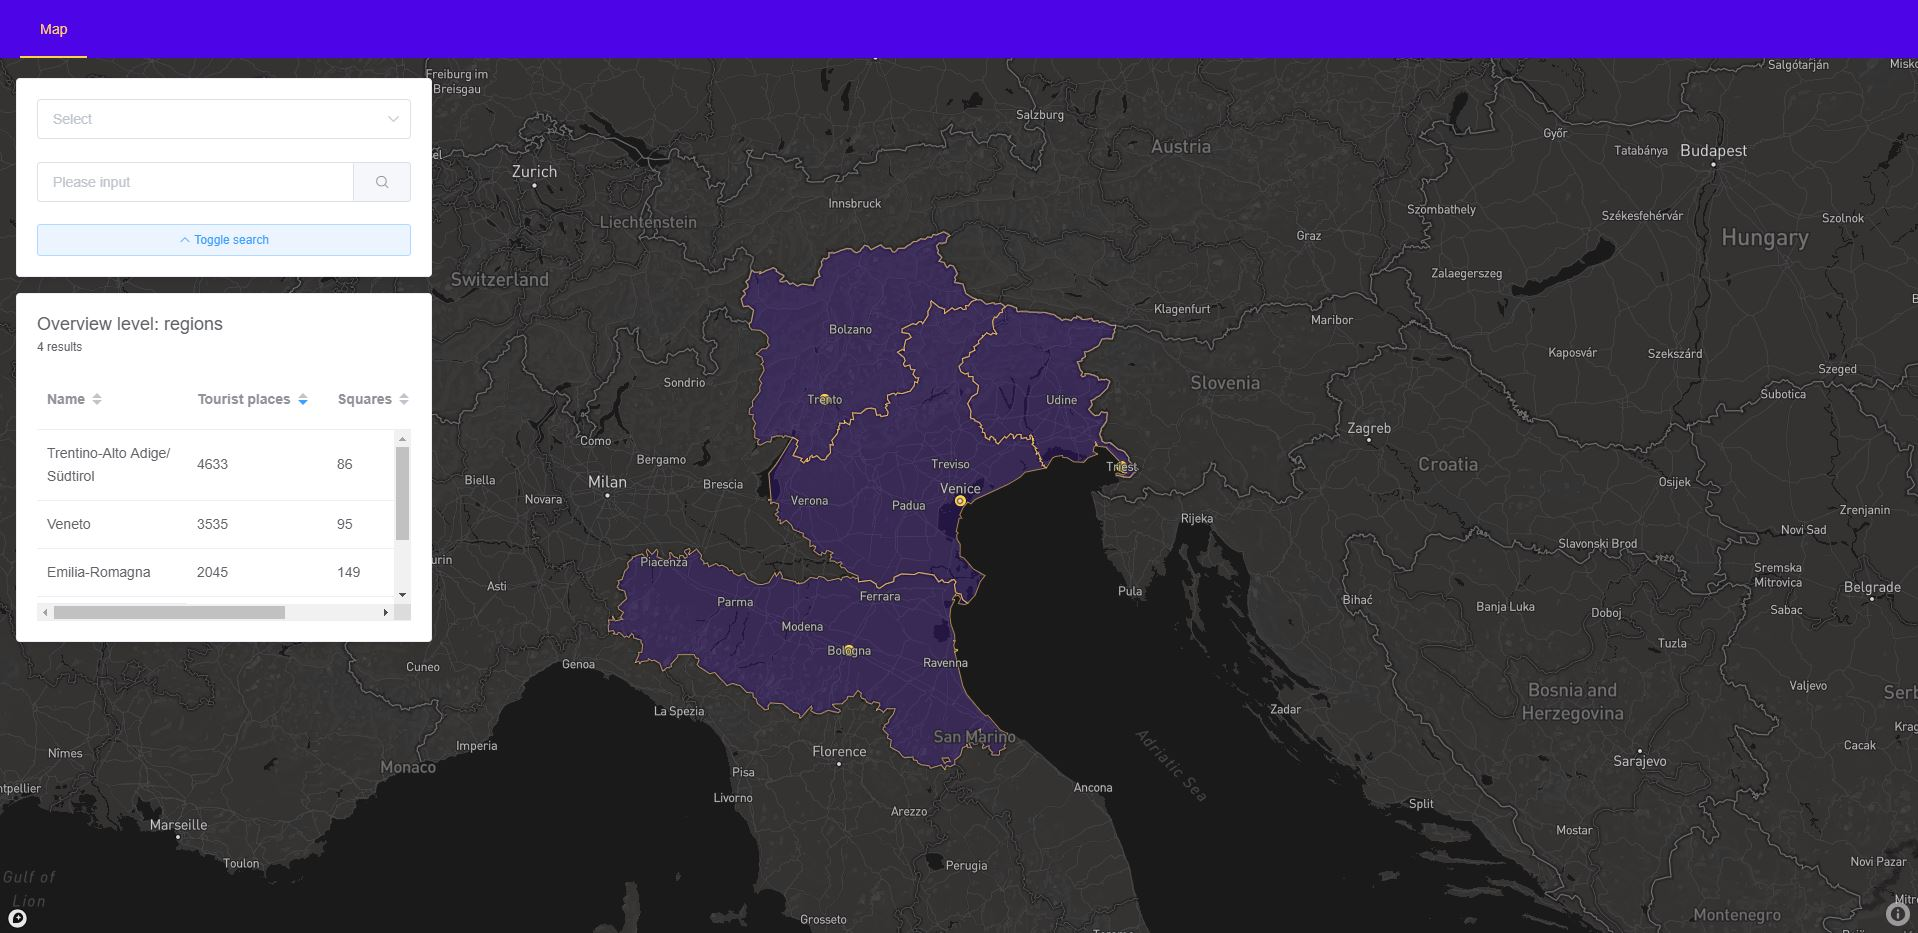
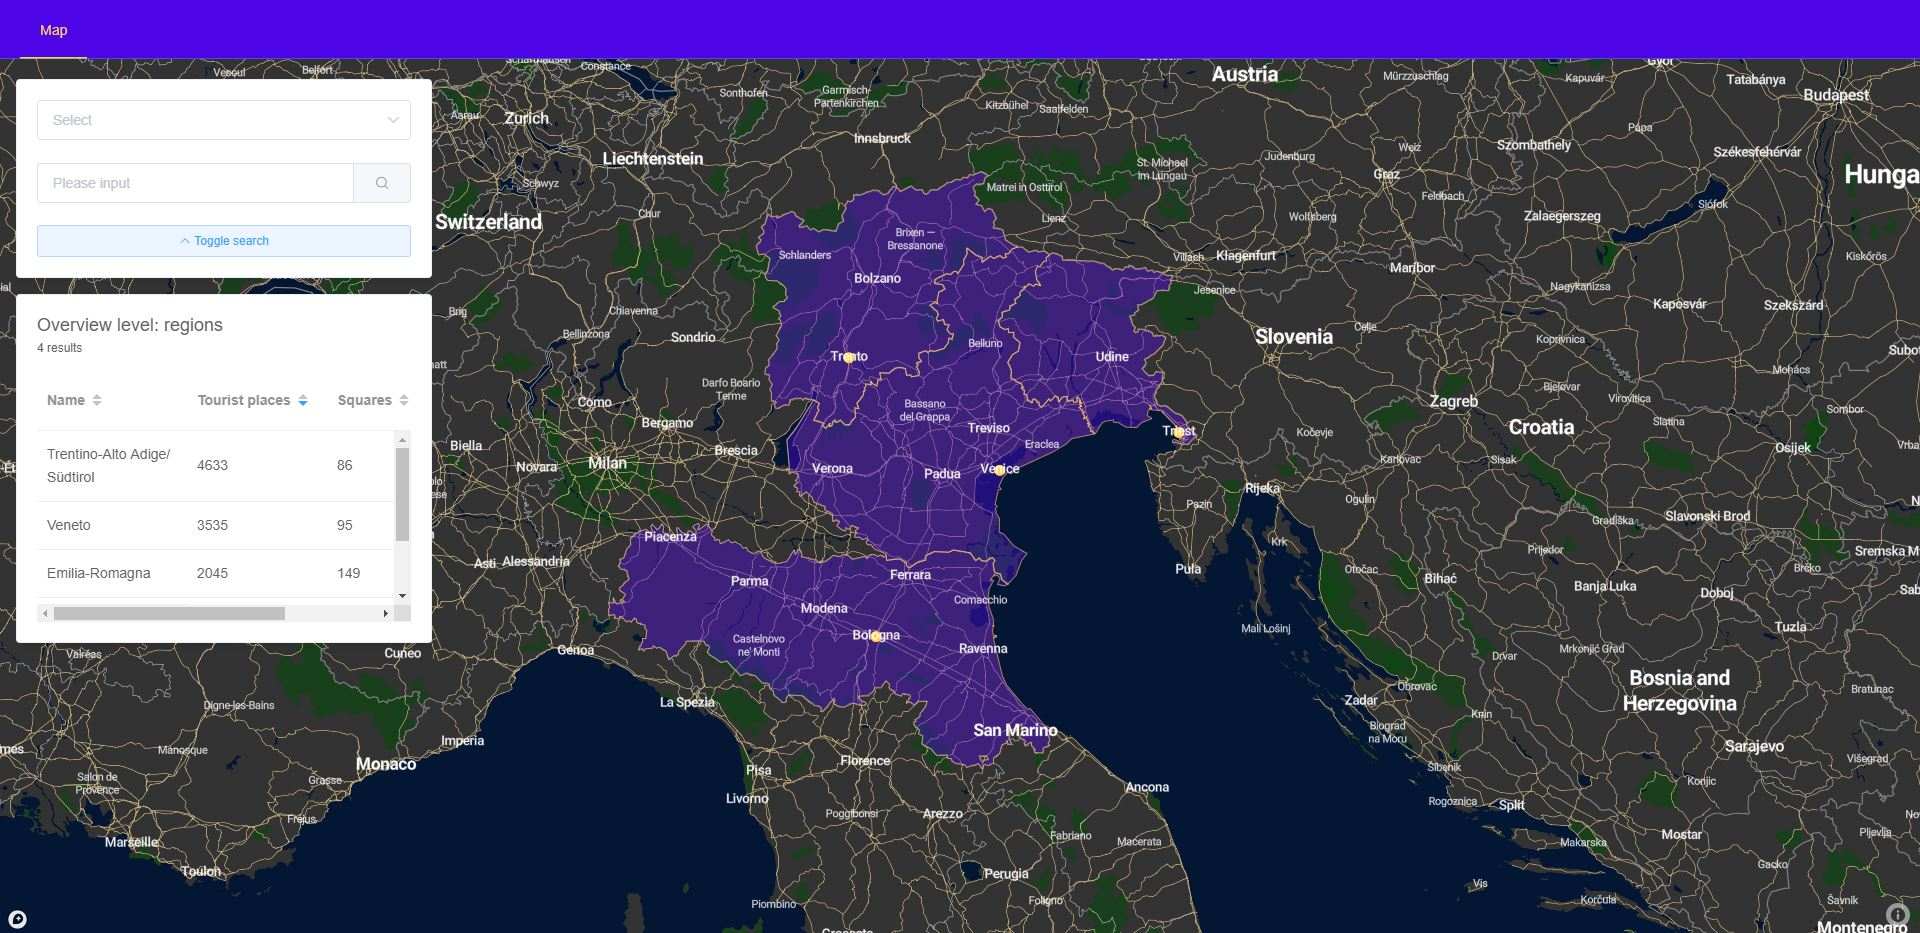
+ custom map style ~ documentation finalization

diff --git a/src/client/pages/index.vue b/src/client/pages/index.vue
@@ -465,7 +465,7 @@
                     'source': mockSource,
                     'paint': {
                         'fill-color': this.primaryColor,
-                        'fill-opacity': ["case", ["boolean", ["feature-state", "hover"], false], 0.4, 0.2]
+                        'fill-opacity': ["case", ["boolean", ["feature-state", "hover"], false], 0.8, 0.4]
                     }
                 }, firstSymbolId);
 
@@ -496,7 +496,7 @@
                     'source': mockSource,
                     'paint': {
                         'fill-color': this.primaryColor,
-                        'fill-opacity': ["case", ["boolean", ["feature-state", "selected"], false], 1, 0.3]
+                        'fill-opacity': ["case", ["boolean", ["feature-state", "selected"], false], 1, 0.6]
                     }
                 }, firstSymbolId);
 
@@ -516,14 +516,14 @@
                         'text-size': 12
                     },
                     'paint': {
-                        'icon-opacity': ["case", ["boolean", ["feature-state", "selected"], false], 1, 0.3],
+                        'icon-opacity': ["case", ["boolean", ["feature-state", "selected"], false], 1, 0.6],
                         'icon-color': [
                             'match',
                             ['get', 'tourism'],
                             ..._.flatten(_.toPairs(this.tourismColorMap)),
                             '#fff'
                         ],
-                        'text-opacity': ["case", ["boolean", ["feature-state", "selected"], false], 1, 0.3],
+                        'text-opacity': ["case", ["boolean", ["feature-state", "selected"], false], 1, 0.6],
                         'text-color': [
                             'match',
                             ['get', 'tourism'],
@@ -538,7 +538,7 @@
                     'type': 'line',
                     'source': mockSource,
                     'paint': {
-                        'line-color': '#00b5cc',
+                        'line-color': '#22ff22',
                         'line-width': 3,
                         'line-opacity': 0.6
                     }
@@ -666,7 +666,7 @@
             mapboxgl.accessToken = "pk.eyJ1IjoicHBpc2Vja3kiLCJhIjoiY2ptbHFtaWQ5MGE4ejNwb2U2bjhjZTFndCJ9.OeB2WcaYoizROXfGgDGhgw";
             window.pdt_map = this.map = new mapboxgl.Map({
                 container: 'map',
-                style: 'mapbox://styles/mapbox/dark-v9',
+                style: 'mapbox://styles/ppisecky/cjp7h4xbl3iyy2ss0zbrz0gct',
                 center: [this.coordinates.lng, this.coordinates.lat],
                 zoom: this.zoom,
                 maxBounds: this.maxBounds

diff --git a/src/server/routes/lines.js b/src/server/routes/lines.js
@@ -66,6 +66,11 @@ function getDirections() {
         source = res.rows[0].source;
         target = res.rows[0].target;
 
+        if (!source || !target) {
+            ctx.body = [];
+            return;
+        }
+
         console.log(`Searching directions for ${source} ${target}`);
 
         let sql = `

diff --git a/docs/api.md b/docs/api.md
@@ -1,0 +1,177 @@
+API implementation can be found in `src/server/routes` folder.
+
+The queries listed here serve as an example of the final query. They
+contain parametrization placeholders (e.g. `$1`,  `$2` etc.) used by the `pg` package query builder to supplement real values for the final query.
+The actual numbering and usage of the placeholders depends on the query parameters used when calling the API.
+
+Queries supporting area bounds expect coordinates in this exact order: sw lng, sw lat, ne lng, ne lat
+
+# Areas
+
+## Get administrative regions with overview information
+`GET /areas/summaries?type=regions&bounds[]=`
+
+Provides polygon geometry with summary information for various administrative regions. When searching for `regions` or `provinces` the capital city is included.
+
+Query for regions and provinces:
+```sql
+SELECT areas.osm_id, areas.name, way_union, ST_AsGeoJSON(areas.way_union) as geojson, ST_X(ST_Centroid(areas.way_union)) as lng,
+ST_Y(ST_Centroid(areas.way_union)) as lat, areas.s as squares_count, areas.t as tourism_count,
+capitals.name as capital_name, capitals.osm_id as capital_osm_id, ST_AsGeoJSON(capitals.way) as capital_geojson
+FROM (
+    SELECT polys.osm_id, polys.name, ST_Collect(ST_Simplify(polys.way, $2)) as way_union, SUM(squares_count_cache) as s,
+    SUM(tourist_places_count_cache) as t
+    FROM planet_osm_polygon as polys
+
+    WHERE polys.boundary = 'administrative' AND polys.admin_level = $1 AND ST_Intersects(ST_MakeEnvelope($3, $4, $5, $6, ST_SRID(polys.way)), polys.way)
+    GROUP BY polys.osm_id, polys.name
+) as areas
+
+
+LEFT JOIN planet_osm_point as capitals
+ON ST_Contains(areas.way_union, capitals.way) AND capitals.name is not null AND capitals.capital = $1
+LIMIT 120
+```
+
+Query for municiaplities:
+```sql
+SELECT polys.osm_id, polys.name, ST_AsGeoJSON(ST_Collect(ST_Simplify(polys.way, $2))) as geojson, ST_X(ST_Centroid(ST_Collect(ST_Simplify(polys.way, $2)))) as lng,
+ST_Y(ST_Centroid(ST_Collect(ST_Simplify(polys.way, $2)))) as lat, sum(polys.squares_count_cache) as squares_count,
+SUM(polys.tourist_places_count_cache) as tourism_count
+FROM planet_osm_polygon as polys
+
+WHERE polys.boundary = 'administrative' AND polys.admin_level = $1 AND ST_Intersects(ST_MakeEnvelope($3, $4, $5, $6, ST_SRID(polys.way)), polys.way)
+GROUP BY polys.osm_id, polys.name
+LIMIT 130
+```
+
+
+## Get squares within an area defined by lng/lat coordinates
+`GET /areas/squares?bounds[]=`
+
+Provides polygons marked as `place=square` in an area defined by bounds.
+```sql
+SELECT squares.osm_id, squares.name, ST_AsGeoJSON(squares.way) as geojson, squares.way_area as area, squares.place,
+ST_X(ST_Centroid(squares.way)) as lng, ST_Y(ST_Centroid(squares.way)) as lat
+FROM planet_osm_polygon as squares
+
+WHERE squares.name is not null AND squares.place = 'square' AND squares.osm_id > 0 AND ST_Intersects(ST_MakeEnvelope($1, $2, $3, $4, ST_SRID(squares.way)), squares.way)
+
+LIMIT 100
+```
+
+
+## Get polygon by id
+`GET /areas/:id`
+
+Searches for a polygon by the osm_id specified in `:id`
+```sql
+SELECT * FROM planet_osm_polygon
+WHERE osm_id = $1
+```
+
+# Places
+
+## Search for places by name and filterd by `tourism` tag
+`GET /places/search?q=foo&tourism[]=`
+
+Search for places by name and tourism tag values.
+```sql
+SELECT places.osm_id, places.name, ST_AsGeoJSON(places.way) as geojson, places.tourism,
+ST_X(places.way) as lng, ST_Y(places.way) as lat
+FROM planet_osm_point as places
+
+WHERE places.name IS NOT null AND places.tourism IS NOT null AND places.tourism IN($1, $2, $3) AND places.osm_id > 0 AND places.name LIKE $1
+
+LIMIT 10
+```
+
+## Find tourist places of certain types in an area defined by bounds
+`GET /places/tourist?tourism[]=&bounds[]=`
+
+Finds tourist points of desired type in an area defined by bounds
+```sql
+SELECT places.osm_id, places.name, ST_AsGeoJSON(places.way) as geojson, places.tourism,
+ST_X(places.way) as lng, ST_Y(places.way) as lat
+FROM planet_osm_point as places
+
+WHERE places.name IS NOT null AND places.tourism IS NOT null places.tourism IN($1, $2, $3) AND places.osm_id > 0 AND ST_Intersects(ST_MakeEnvelope($4, $5, $6, $7, ST_SRID(places.way)), places.way)
+
+LIMIT 200
+```
+
+## Get a point by id
+`GET /places/:id`
+
+Get a point by osm_id
+
+```sql
+SELECT * FROM planet_osm_point
+WHERE osm_id = $1
+```
+# Lines
+
+## Get roads surrounding a point within a predefined distance
+
+`GET /lines/surrounding?bounds[]=`
+
+Get lines surrounding a point identified by an osm_id (maximum distance restrictions apply). The search area can be further restricted by provididng bounds. The chosen distance restriction is arbitrary.
+```sql
+SELECT ST_AsGeoJSON(edges.geom_way) as geojson
+FROM planet_osm_point as points
+
+JOIN pgr_italy_2po_4pgr as edges
+ON ST_DWithin(points.way, edges.geom_way, 0.01) AND ST_Intersects(ST_MakeEnvelope($2, $3, $4, $5, ST_SRID(edges.geom_way)), edges.geom_way)
+
+WHERE points.osm_id = $1
+```
+
+
+## Find the shortest path between two points
+`GET /lines/directions?source=&target=`
+
+Attempts to find directions between two points.
+
+First a source and target nodes closest to the points specified by the `source` and `target` osm_id's are found - 150m radius is used here to limit maximum node distance from the point.
+
+```sql
+SELECT (
+           SELECT v.id
+           FROM planet_osm_point as p
+
+           JOIN pgr_italy_2po_vertex as v
+           ON ST_DWithin(p.way::geography, v.geog_vertex, 150)
+
+           WHERE p.osm_id = $1
+
+           ORDER BY ST_Distance(p.way::geography, v.geog_vertex) ASC
+           LIMIT 1
+       ) as source,
+       (
+          SELECT v.id
+          FROM planet_osm_point as p
+
+          JOIN pgr_italy_2po_vertex as v
+          ON ST_DWithin(p.way::geography, v.geog_vertex, 150)
+
+          WHERE p.osm_id = $2
+
+          ORDER BY ST_Distance(p.way::geography, v.geog_vertex) ASC
+          LIMIT 1
+      ) as as target
+```
+
+Using the newly found nodes a shortest path between them is searched for using `pgr_dijkstra` function from `pgRouting`. Note: The `pg` package parametrization doesn't work here because the values need to be injected into the string used as the first argument for dijkstra. This isn't a major problem because at this point these values are going to be results of the previous query - not user input.
+
+```sql
+SELECT ST_AsGeoJSON(ST_Union(edges.geom_way)) as geojson
+FROM pgr_dijkstra(
+    'SELECT id, source, target, cost, reverse_cost, geom_way FROM pgr_italy_2po_4pgr as edges,
+    (SELECT ST_Expand(ST_Extent(geom_way),0.1) as box  FROM pgr_italy_2po_4pgr as lim  WHERE lim.source = ${source_node} OR lim.target = ${target_node}) as box
+    WHERE edges.geom_way && box.box',
+    $1, $2,
+    FALSE
+) as path
+JOIN pgr_italy_2po_4pgr as edges
+ON edges.id = path.edge
+```

diff --git a/docs/documentation.md b/docs/documentation.md
@@ -1,16 +1,19 @@
 # Overview
 
-This application helps tourists navigate in Italy:
-- display overview of administrative regions in Italy with number of points of interest and squares
+This application helps tourists navigate in Italy (see the [API documentation](api.md) doc for query examples):
+- display overview of administrative regions in Italy with number of points of interest, number of squares and administrative capital
 - search tourist points by name
+- display tourist points in the viewed area
 - filter tourist points by type
+- display roads in a radius around a point
 - get directions between two points
 
 This is it in action:
 
 ![Screenshot](preview1.JPG)
 ![Screenshot](preview2.JPG)
-
+![Screenshot](preview4.JPG)
+![Screenshot](preview3.JPG)
 
 The application has 2 separate parts, the client which is a [frontend web application](#frontend) using Vue.js and mapbox-gl and the Node.js + Koa [backend application](#backend) using Postgres + PostGIS to query data. The frontend application communicates with backend using a REST API.
 
@@ -18,17 +21,13 @@ The application has 2 separate parts, the client which is a [frontend web applic
 
 # Frontend
 
-The frontend application is a Vue.js app, which shows a mapbox.js widget. It provieds two view modes: overview and detail. The overview mode is a high-level (low zoom) view that displays region outlines at various levels with summary information for the regions being displayed. The detail level (high zoom) displays points of interest (from tourist perspective) and squares in the viewed area. Different types of points are displayed using different colors and icons to make navigation easier. In the detail view an item can be selected to get more information about it. Selected item can also be used to get directions to another nearby point of interest (if available).
+The frontend application is a `Vue.js + nuxt` app, which displays a `mapbox.js` widget. It provieds two view modes: overview and detail. The overview mode is a high-level (low zoom) view that displays region outlines at various levels with summary information for the regions being displayed. The detail level (high zoom) displays points of interest (from tourist perspective) and squares in the viewed area. Different types of points are displayed using different colors and icons to make navigation easier. In the detail view an item can be selected to get more information about it. Selected item can also be used to get directions to another nearby point of interest (if available).
 
 All relevant frontend code is in the `src/client` folder. The most important file is then located in `pages/index.vue`.
 
 # Backend
 
-The backend application is written in JavaScript using Node.js and Koa. The server provides a simple API for the client to query data in the database. All relevant PG queries are located in `src/server/routes`.
-
-## API
-
-See the [API documentation](api.md) for query examples.
+The backend application is written in JavaScript using `Node.js + Koa`. The server provides a simple API for the client to query data in the database. All relevant PG queries are located in `src/server/routes`.
 
 ## Data
 
@@ -47,7 +46,7 @@ The resulting database has been further modified by introducting 2 new columns i
 * `squares_count_cache` - number of squares in the area (polygons, place=square)
 * `tourist_places_count_cache` - number of tourist locations in the area (points, tourism != null)
 
-The data was also additionally imported using the `osm2po` tool which creates a network of nodes and vertices for use in conjunction with the `pgRouting` extension. Following tables have been created (prefix=`pgr_italy`):
+The data was also additionally imported using the `osm2po` tool which creates a network of vertices for use in conjunction with the `pgRouting` extension. Following tables have been created (prefix=`pgr_italy`):
 
 * `pgr_italy_2po_4pgr`: ~ 1 111 072 rows
 * `pgr_italy_2po_vertex`: ~ 905 308 rows
@@ -64,3 +63,7 @@ Several indices have been created on the imported data. Some of them are partial
 * `planet_osm_point` - `planet_osm_point_id_index` - btree index on osm_id
 * `pgr_italy_2po_vertex` - `vertex_geog_index` - gist index on a custom geographical column `geog_way` for finding vertices closest to points 
  
+
+## API and queries
+
+See the [API documentation](api.md) for query examples.

diff --git a/docs/database.md b/docs/database.md
@@ -6,7 +6,7 @@ Several indices were created to speed up query execution
 
 ### planet_osm_polygon
 
-```postgresql
+```sql
 CREATE INDEX planet_osm_polygon_admin_way_index ON planet_osm_polygon USING GIST (way) WHERE boundary = 'administrative' and admin_level IN ('4', '6', '8', '10');
 CREATE INDEX planet_osm_polygon_place_index ON planet_osm_polygon USING BTREE(name, place);
 ```
@@ -15,7 +15,7 @@ CREATE INDEX planet_osm_polygon_place_index ON planet_osm_polygon USING BTREE(na
 
 NOTE: the `planet_osm_point_tourism_way_index` requires the `btree_gist` extension to allow creation of combined regular/geo data type columns.
 
-```postgresql
+```sql
 CREATE INDEX planet_osm_point_capitals_way_index ON planet_osm_point USING GIST (way) WHERE name is not null and capital IN ('4', '6');
 CREATE INDEX planet_osm_point_tourism_way_index ON planet_osm_point USING gist (tourism, way);
 CREATE INDEX planet_osm_point_id_index ON planet_osm_point USING btree(osm_id) WHERE osm_id > 0;
@@ -27,7 +27,7 @@ The tables imported by `osm2po` have a few indexes as well. Though in the case o
 
 ### pgr_italy_2po_vertex
 
-```postgresql
+```sql
 CREATE INDEX vertex_geog_index ON pgr_italy_2po_vertex USING GIST(geog_vertex)
 ```
 
@@ -35,7 +35,7 @@ CREATE INDEX vertex_geog_index ON pgr_italy_2po_vertex USING GIST(geog_vertex)
 
 Multiple indices were created to attempt to speed up the performance of `pgr_dijkstra` but it seems like the algorithm loads the entire graph into the memory. 
 
-```postgresql
+```sql
 CREATE INDEX pgr_italy_geom_way_index ON pgr_italy_2po_4pgr USING gist(geom_way);
 CREATE INDEX pgr_italy_2po_id_index ON pgr_italy_2po_4pgr USING btree(id);
 CREATE INDEX pgr_italy_2po_source_index ON pgr_italy_2po_4pgr USING btree(source);
@@ -54,7 +54,7 @@ This section describes ways to seed the custom columns created for this project.
 
 Two columns for maintaining a count of entities contained in certain polygons have been created: `squares_count_cache` and  `tourist_places_count_cache` (both `integer`). The following statements can be used to seed these values initially.
 
-```postgresql
+```sql
 UPDATE planet_osm_polygon as areas SET squares_count_cache = (
 	SELECT count(*)
 	FROM planet_osm_polygon as squares
@@ -64,7 +64,7 @@ UPDATE planet_osm_polygon as areas SET squares_count_cache = (
 WHERE areas.boundary = 'administrative' AND areas.admin_level IN ('4', '6', '8', '10');
 ```
 
-```postgresql
+```sql
 UPDATE planet_osm_polygon as areas SET tourist_places_count_cache = (
 	SELECT count(*)
 	FROM planet_osm_point as points
@@ -77,7 +77,7 @@ WHERE areas.boundary = 'administrative' AND areas.admin_level IN ('4', '6', '8',
 ### pgr_italy_2po_vertex
 A `geography` column called `geog_vertex` was added to allow for finding vertices in an area around points in `planet_osm_point` with a distance in meters.
 
-```postgresql
+```sql
 UPDATE pgr_italy_2po_vertex
 SET geog_vertex = geom_vertex::geography;
 ```
@@ -86,7 +86,7 @@ SET geog_vertex = geom_vertex::geography;
 
 Though not required for this project the issue of maintaining the values of the counter columns can be considered. Use the following trigger SQL draft to maintain the values for the counter columns in `planet_osm_polygon`. This example only covers the `squares_count_cache` column. A simmilar trigger would have to be written for the `tourist_places_count_cache` column.
 
-```postgresql
+```sql
 CREATE FUNCTION contained_squares_counter_cache_trg() RETURNS TRIGGER AS
 $$
 BEGIN
@@ -121,7 +121,7 @@ EXECUTE PROCEDURE contained_squares_counter_cache_trg();
 
 The following clustering was used in conjuction with `VACUUM` and `ANALYZE` in order to improve the performance of the queries.
 
-```postgresql
+```sql
 CLUSTER pgr_italy_2po_4pgr USING pgr_italy_geom_way_index;
 CLUSTER pgr_italy_2po_vertex USING vertex_geog_index;
 CLUSTER planet_osm_point USING planet_osm_point_tourism_way_index;

diff --git a/README.md b/README.md
@@ -2,7 +2,7 @@
 
 **Application description**: Tourist application for visitors in Italy.
 
-**Data source**: Open Street Maps (read more in [docs](docs/documentation.md)
+**Data source**: Open Street Maps (read more in [docs](docs/documentation.md))
 
 ### Technologies used: 
 **Client**: `Vue.js + Nuxt`, `element`, `axios`, `mapbox-gl`
